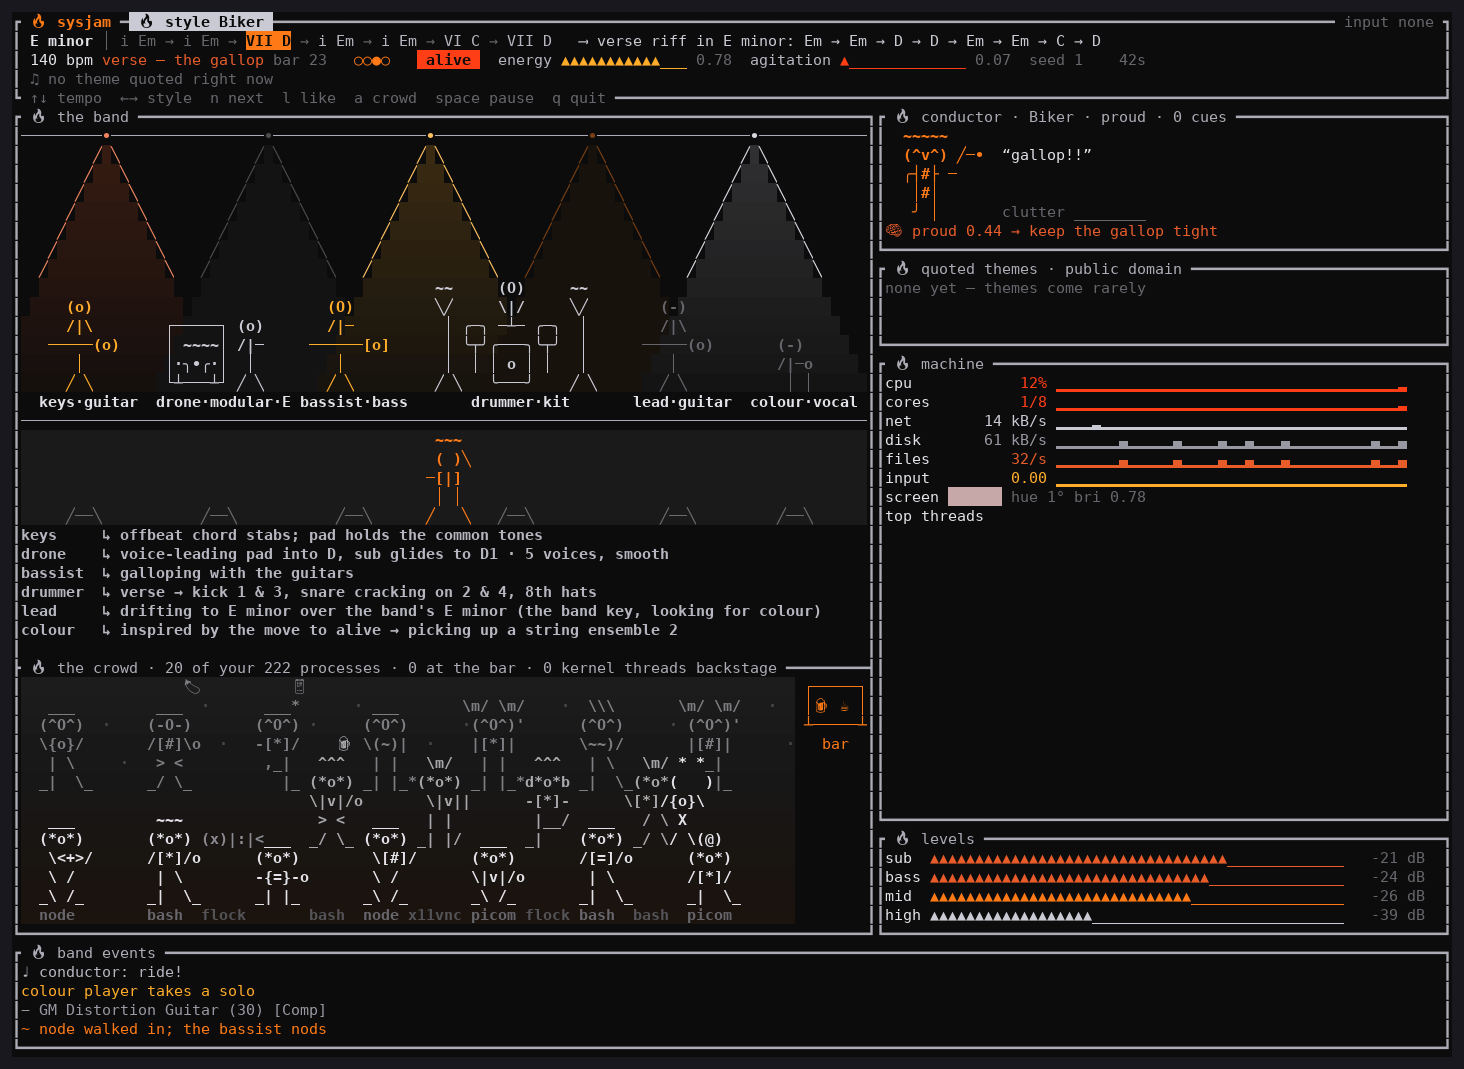
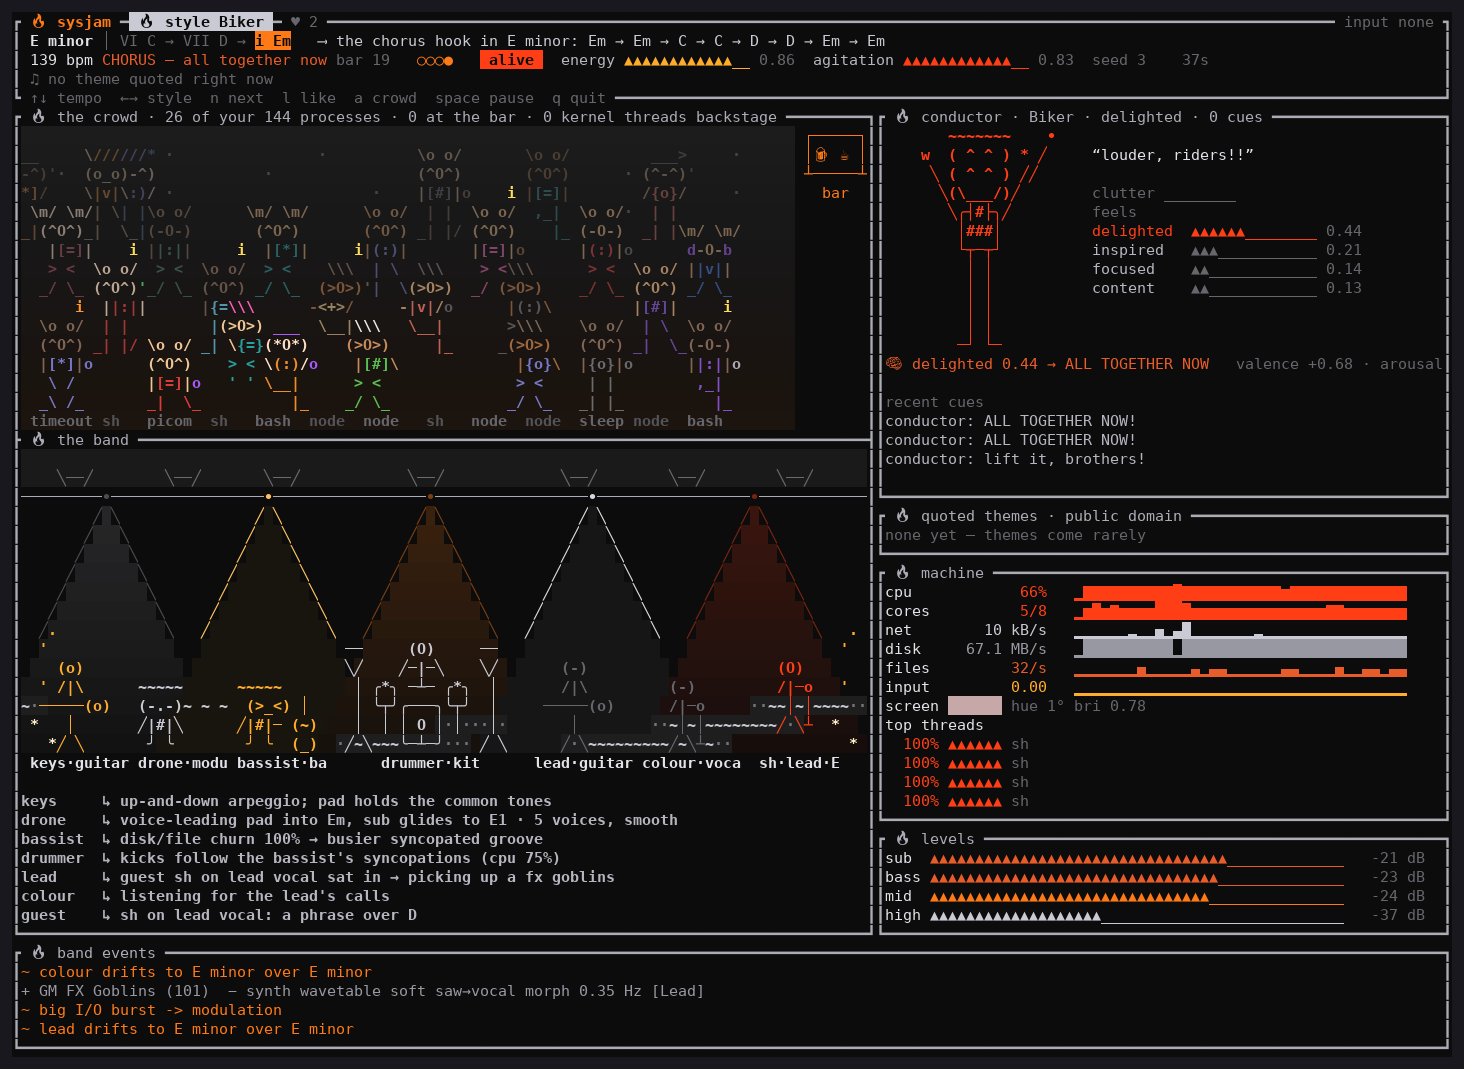
UI: left column is now crowd, band, text: the crowd stands above the stage facing it (front row = bottom, nearest the stage), the apron and wedges sit between them under the truss line, the stage diver leaps up into the front row and is passed back over the heads; without the crowd the band goes bac

diff --git a/src/ui.rs b/src/ui.rs
@@ -592,7 +592,7 @@ fn draw(f: &mut Frame, b: &BandSnap, m: &MonSnap, log: &[String], paused: bool, 
     };
     crate::theme::set_glitch(g);
     f.render_widget(Block::default().style(Style::default().bg(crate::theme::bg()).fg(th(Color::Gray))), area);
-    // the crowd strip under the band needs 5 more rows (it shares the band's bottom border);
+    // the crowd strip above the band needs 5 more rows (it shares the band's top border);
     // on a short terminal the event log gives up to 2 lines for it, below that it hides
     let force = crate::audience::FORCE.load(Ordering::Relaxed);
     let roomy = area.width >= CROWD_MIN_W && area.height >= CROWD_MIN_H;
@@ -638,14 +638,18 @@ fn draw(f: &mut Frame, b: &BandSnap, m: &MonSnap, log: &[String], paused: bool, 
         .constraints([Constraint::Percentage(60), Constraint::Percentage(40)])
         .split(rows[1]);
     anim.crowd = m.crowd.clone();
+    // the left column, top to bottom: the crowd, the band on stage facing it, then the
+    // players' thinking; without the crowd the band goes to the top
     if show_crowd {
         let l = mid[0];
-        let band = Rect { height: l.height - (crowd_h - 1), ..l };
-        let cr = Rect { y: l.y + band.height - 1, height: crowd_h, ..l };
-        draw_band(f, band, b, anim, ctx);
+        let cr = Rect { height: crowd_h, ..l };
+        let band = Rect { y: l.y + crowd_h - 1, height: l.height - (crowd_h - 1), ..l };
+        anim.crowd_above = true;
         draw_crowd(f, cr, b, anim, ctx);
+        draw_band(f, band, b, anim, ctx);
     } else {
         anim.aud = None;
+        anim.crowd_above = false;
         draw_band(f, mid[0], b, anim, ctx);
     }
     // the right column: every panel sized to its content (the machine panel: 7 meters, the
@@ -1176,6 +1180,8 @@ pub struct Anim {
     stage_rows: Vec<Vec<Cell>>,
     stage_t: Instant,
     stage_hit: (f64, bool),
+    /// the crowd panel sits above the band: the stage's apron goes on top, facing it
+    crowd_above: bool,
     fog: f32,
     fx_t: Instant,
     dive: Option<(f32, i32, u32)>,
@@ -1193,7 +1199,7 @@ pub struct Anim {
 
 impl Anim {
     pub fn new() -> Anim {
-        Anim { t0: Instant::now(), fam: [None; 7], swap: [None; 7], present: [false; 7], walk: [None; 7], hush: [None; 7], col: [Color::Gray; 7], cond: None, said: (String::new(), Instant::now()), band: None, dots: None, crowd: Default::default(), floor: crate::audience::Floor::new(), aud: None, crowd_rows: Vec::new(), crowd_t: Instant::now(), crowd_beat: 0, stage_rows: Vec::new(), stage_t: Instant::now(), stage_hit: (0.0, true), fog: 0.0, fx_t: Instant::now(), dive: None, dive_t: -100.0, hit_only: false, out_cache: Vec::new(), stage_beat: 0, prop: [None; 7], pswap: [None; 7], stage: None, solo: None }
+        Anim { t0: Instant::now(), fam: [None; 7], swap: [None; 7], present: [false; 7], walk: [None; 7], hush: [None; 7], col: [Color::Gray; 7], cond: None, said: (String::new(), Instant::now()), band: None, dots: None, crowd: Default::default(), floor: crate::audience::Floor::new(), aud: None, crowd_rows: Vec::new(), crowd_t: Instant::now(), crowd_beat: 0, stage_rows: Vec::new(), stage_t: Instant::now(), stage_hit: (0.0, true), fog: 0.0, fx_t: Instant::now(), dive: None, dive_t: -100.0, hit_only: false, out_cache: Vec::new(), stage_beat: 0, prop: [None; 7], pswap: [None; 7], stage: None, solo: None, crowd_above: false }
     }
 }
 
@@ -1358,6 +1364,19 @@ fn draw_band(f: &mut Frame, r: Rect, b: &BandSnap, anim: &mut Anim, ctx: &Ctx) {
     let block = Block::default().borders(Borders::ALL).border_set(crate::theme::border_set()).border_style(Style::default().fg(crate::theme::border_color())).title(crate::theme::title(" the band "));
     let inner = block.inner(r);
     f.render_widget(block, r);
+    if anim.crowd_above {
+        // join the crowd panel above: ├ ┤ instead of corners
+        let bs = crate::theme::border_set();
+        let (l, rr) = match bs.vertical_left {
+            "│" => ("├", "┤"),
+            "║" => ("╠", "╣"),
+            "┃" => ("┣", "┫"),
+            _ => (bs.top_left, bs.top_right),
+        };
+        let buf = f.buffer_mut();
+        buf[(r.x, r.y)].set_symbol(l);
+        buf[(r.x + r.width - 1, r.y)].set_symbol(rr);
+    }
     // roomy: the band on a stage, with their instruments; small terminals keep the list
     if std::env::var("SYSJAM_STAGE").map_or(true, |v| v != "0") {
         if let Some(g) = stage_grid(b, anim, ctx, inner.width as usize, inner.height as usize) {
@@ -1836,7 +1855,8 @@ fn stage_grid_(b: &BandSnap, anim: &mut Anim, ctx: &Ctx, w: usize, h: usize) -> 
         let hit = ctx.heard.and_then(|hd| crate::clock::last_hit(pi, hd)).map(|(age, ..)| (age / rate) as f32);
         let _ = hit;
         let fwd = matches!(anim.solo, Some((p, _)) if p == pi);
-        let y0 = TOP + fwd as usize;
+        // forward is toward the crowd: down to the lip, or up when the crowd is above
+        let y0 = if anim.crowd_above { TOP - fwd as usize } else { TOP + fwd as usize };
         match (s.prop, s.big) {
             (Some(p), true) => {
                 // drawn from the notes as heard: each hit lands on the frame it sounds
@@ -2019,7 +2039,7 @@ fn stage_grid_(b: &BandSnap, anim: &mut Anim, ctx: &Ctx, w: usize, h: usize) -> 
     }
     let wedge_c = crate::theme::dim(Color::Gray, 2);
     for &(_, sx, sw) in &capx {
-        put(&mut g, (sx + sw / 2) as i32 - 2, LIP + APRON, stage::WEDGE, wedge_c);
+        put(&mut g, (sx + sw / 2) as i32 - 2, LIP + APRON, if anim.crowd_above { stage::WEDGE_UP } else { stage::WEDGE }, wedge_c);
     }
     let cx = (w / 2) as i32 - 4;
     // the biker frontman's yell / the conductor's call, in a bubble on the apron
@@ -2047,6 +2067,16 @@ fn stage_grid_(b: &BandSnap, anim: &mut Anim, ctx: &Ctx, w: usize, h: usize) -> 
         put(&mut g, 0, y, &line, fg);
         y += 1;
         shown += 1;
+    }
+    if anim.crowd_above {
+        // the crowd is above: the apron (the yell, then the wedges) goes on top, against the
+        // crowd; the truss line under it is the stage's front edge; the lip row becomes the
+        // gap between the captions and the thinking lines
+        let apron: Vec<Vec<Cell>> = g.drain(LIP + 1..=LIP + APRON).collect();
+        for c in g[LIP].iter_mut() {
+            *c = (' ', Color::Reset, bgc);
+        }
+        g.splice(0..0, apron);
     }
     Some(g)
 }
@@ -2329,19 +2359,21 @@ fn crowd_grid_(b: &BandSnap, anim: &mut Anim, ctx: &Ctx, fw: usize) -> Vec<Vec<C
         tags.push((matches!(p.act, Act::Here | Act::Bar | Act::Out), lx, label, tcol));
     }
     let _ = FH;
-    // the stage diver: a leap off the stage lip, then crowd-surfed over the front row
+    // the stage diver: a leap off the stage (below the crowd), then crowd-surfed over the
+    // heads, passed back a row every ~1.6 s
     if let Some((t0, dir, seed)) = anim.dive {
         let k = t - t0;
         let front = 1 + 3 * (layers as i32 - 1);
         let cx = pit_cx as i32 - 3;
         let dc = Color::White;
         let (rows, y, x): ([&str; 2], i32, i32) = if k < 0.7 {
-            ([" \\(O)/ ", "   / \\ "], 0, cx)
+            ([" \\(O)/ ", "   / \\ "], tag_row as i32 - 2, cx)
         } else {
             let bob = (beats.floor() as i64 % 2) as i32;
             let hands = if bob == 0 { " ^ ^ ^ ^ " } else { "^ ^ ^ ^ ^" };
             let face = if seed % 2 == 0 { "_\\(^O^)/_" } else { "_\\(>O<)/_" };
-            ([face, hands], front - 1 - bob, cx + (dir as f32 * (k - 0.7) * 6.0) as i32)
+            let back = (((k - 0.7) / 1.6) as i32).min(layers as i32 - 1);
+            ([face, hands], front - 1 - bob - 3 * back, cx + (dir as f32 * (k - 0.7) * 6.0) as i32)
         };
         for (r, row) in rows.iter().enumerate() {
             let yy = y + r as i32;
@@ -2421,16 +2453,7 @@ fn draw_crowd(f: &mut Frame, r: Rect, b: &BandSnap, anim: &mut Anim, ctx: &Ctx) 
     let block = Block::default().borders(Borders::ALL).border_set(bs).border_style(Style::default().fg(crate::theme::border_color())).title(crate::theme::title(&title));
     let inner = block.inner(r);
     f.render_widget(block, r);
-    // join the band panel above: ├ ┤ instead of corners
-    let (l, rr) = match bs.vertical_left {
-        "│" => ("├", "┤"),
-        "║" => ("╠", "╣"),
-        "┃" => ("┣", "┫"),
-        _ => (bs.top_left, bs.top_right),
-    };
-    let buf = f.buffer_mut();
-    buf[(r.x, r.y)].set_symbol(l);
-    buf[(r.x + r.width - 1, r.y)].set_symbol(rr);
+    // (its bottom border is the band panel's top one, drawn over it)
     if (inner.width as usize) < BARW + 12 || inner.height < 4 {
         anim.aud = None;
         return;

diff --git a/src/stage.rs b/src/stage.rs
@@ -329,6 +329,8 @@ fn raw(p: Prop) -> (&'static [&'static str], &'static [&'static str]) {
 
 /// a wedge monitor and an amp stack
 pub const WEDGE: &str = "╱──╲";
+/// a wedge seen with the crowd above the stage
+pub const WEDGE_UP: &str = "╲──╱";
 pub fn amp(industrial: bool) -> [&'static str; 6] {
     if industrial {
         ["┌──┐", "│##│", "│##│", "├──┤", "│##│", "└──┘"]

diff --git a/README.md b/README.md
@@ -57,7 +57,7 @@ Telecaster** break, the next verse; −15.3 LUFS, peaks −1.0 dBFS) and
 Scott*, then the set moves on to the reel *Belles of Tipperary*, 6 bpm faster, and its A and B
 parts; −13.4 LUFS, peaks −1.5 dBFS). Above 12 kHz they sit at −40 / −40 / −53 dB of the total.
 
-![sysjam's live terminal UI at 200 × 60 in Country (A major, 96 → 106 bpm, a call-and-response chorus): the band on a lit stage with keys, drone, bassist, drummer, lead guitar and fiddle, the extra-large conductor delighted in the right-hand panel beside his feelings chart, and the crowd of processes dancing below](docs/tui.png)
+![sysjam's live terminal UI at 200 × 60 in Country (A major, 96 → 106 bpm, a call-and-response chorus): the band on a lit stage with keys, drone, bassist, drummer, lead guitar and fiddle, the extra-large conductor delighted in the right-hand panel beside his feelings chart, and the crowd of processes dancing above the stage](docs/tui.png)
 
 One static-ish binary (`sysjam`, ~2.2 MB, x86_64, needs glibc ≥ 2.29). It
 links only libc, libm, libpthread and libdl. ALSA, D-Bus and PipeWire are
@@ -90,7 +90,7 @@ loaded at run time with `dlopen`, so it starts even when one of them is missing.
 | `--clicks L` | file open/close click texture 0–1 (default 0.25) |
 | `--no-leads` | no guest musician (neither a busy program nor the band's own featured guest) |
 | `--no-input` | don't watch keyboard/mouse activity (see below) |
-| `--no-audience` | no process crowd under the band, and no audience scan at all (see [the audience](#the-audience-your-processes-on-the-dance-floor)) |
+| `--no-audience` | no process crowd above the band, and no audience scan at all (see [the audience](#the-audience-your-processes-on-the-dance-floor)) |
 | `--no-screen`, `--screen-method auto\|portal\|grim\|x11\|cmd`, `--screen-cmd CMD`, `--screen-interval S` | screen colour (see below) |
 | `--device NAME` | ALSA device (`default`, `pipewire`, `pulse`, `hw:0`) |
 | `--no-tui` | plain log lines instead of the live terminal UI (the UI is the default when stdout is a terminal) |
@@ -275,10 +275,15 @@ band plays **on a stage** instead of the list:
   glows brighter on a drag and a wisp drifting up (green in the same styles). Only a few dozen
   cells, drawn into the same grids, so only the changed ones are written. `SYSJAM_FOG=1`
   keeps the fog on for demos.
-- **One-line captions** (`keys·grand·E`, the addressed player highlighted), the **stage lip**,
-  and a slim apron with the frontman's yells in a bubble and wedge monitors (the conductor
-  has his own panel, so the stage gives those rows back to the band and the crowd).
-- Under the stage, **one condensed "thinking" line per player** (`bassist ↳ locked to the kick`).
+- **The left column, top to bottom: the crowd, the band, the text.** The crowd stands above the
+  stage, facing it: its front row (the brightest) is the bottom one, nearest the stage, and the
+  rows further up are further back (the bar is at the back). Between them, a slim apron with the
+  frontman's yells in a bubble and wedge monitors, then the lighting truss along the stage's front
+  edge. Without the crowd (small terminals, or `a`) the band goes to the top and the apron sits
+  under the players again, past the **stage lip**.
+- **One-line captions** (`keys·grand·E`, the addressed player highlighted); the conductor has
+  his own panel, so the stage gives those rows back to the band and the crowd.
+- Under the players, **one condensed "thinking" line per player** (`bassist ↳ locked to the kick`).
 - Small terminals keep the old list view with the little figures. `SYSJAM_STAGE=0` forces it.
 
 All prop art is static text built once (two frames per prop, patched per limb from the notes), only from the same width-safe glyph
@@ -501,7 +506,8 @@ how many kernel threads stay backstage.
   - **Metal and Biker:** a **circle pit** in the middle of the front rows when it's really
     going (energy above 0.62 in a RAGE, blast, breakdown or chorus): the people in it run round
     a lap a bar, jumping, flailing and headbanging. Now and then someone **stage-dives**, leaping
-    off the lip (`\(O)/`) and **crowd-surfing** over the front row on a sea of hands. Around the
+    off the stage into the front row (`\(O)/`) and **crowd-surfing** back over the heads, a row
+    further back every second or two, on a sea of hands. Around the
     pit they headbang and throw the horns `\m/`, and Biker's chorus gets fists up for the
     sing-along.
   - **Industrial:** stomping, pogo jumps and fist pumps, with a small pit in the wall of sound.
